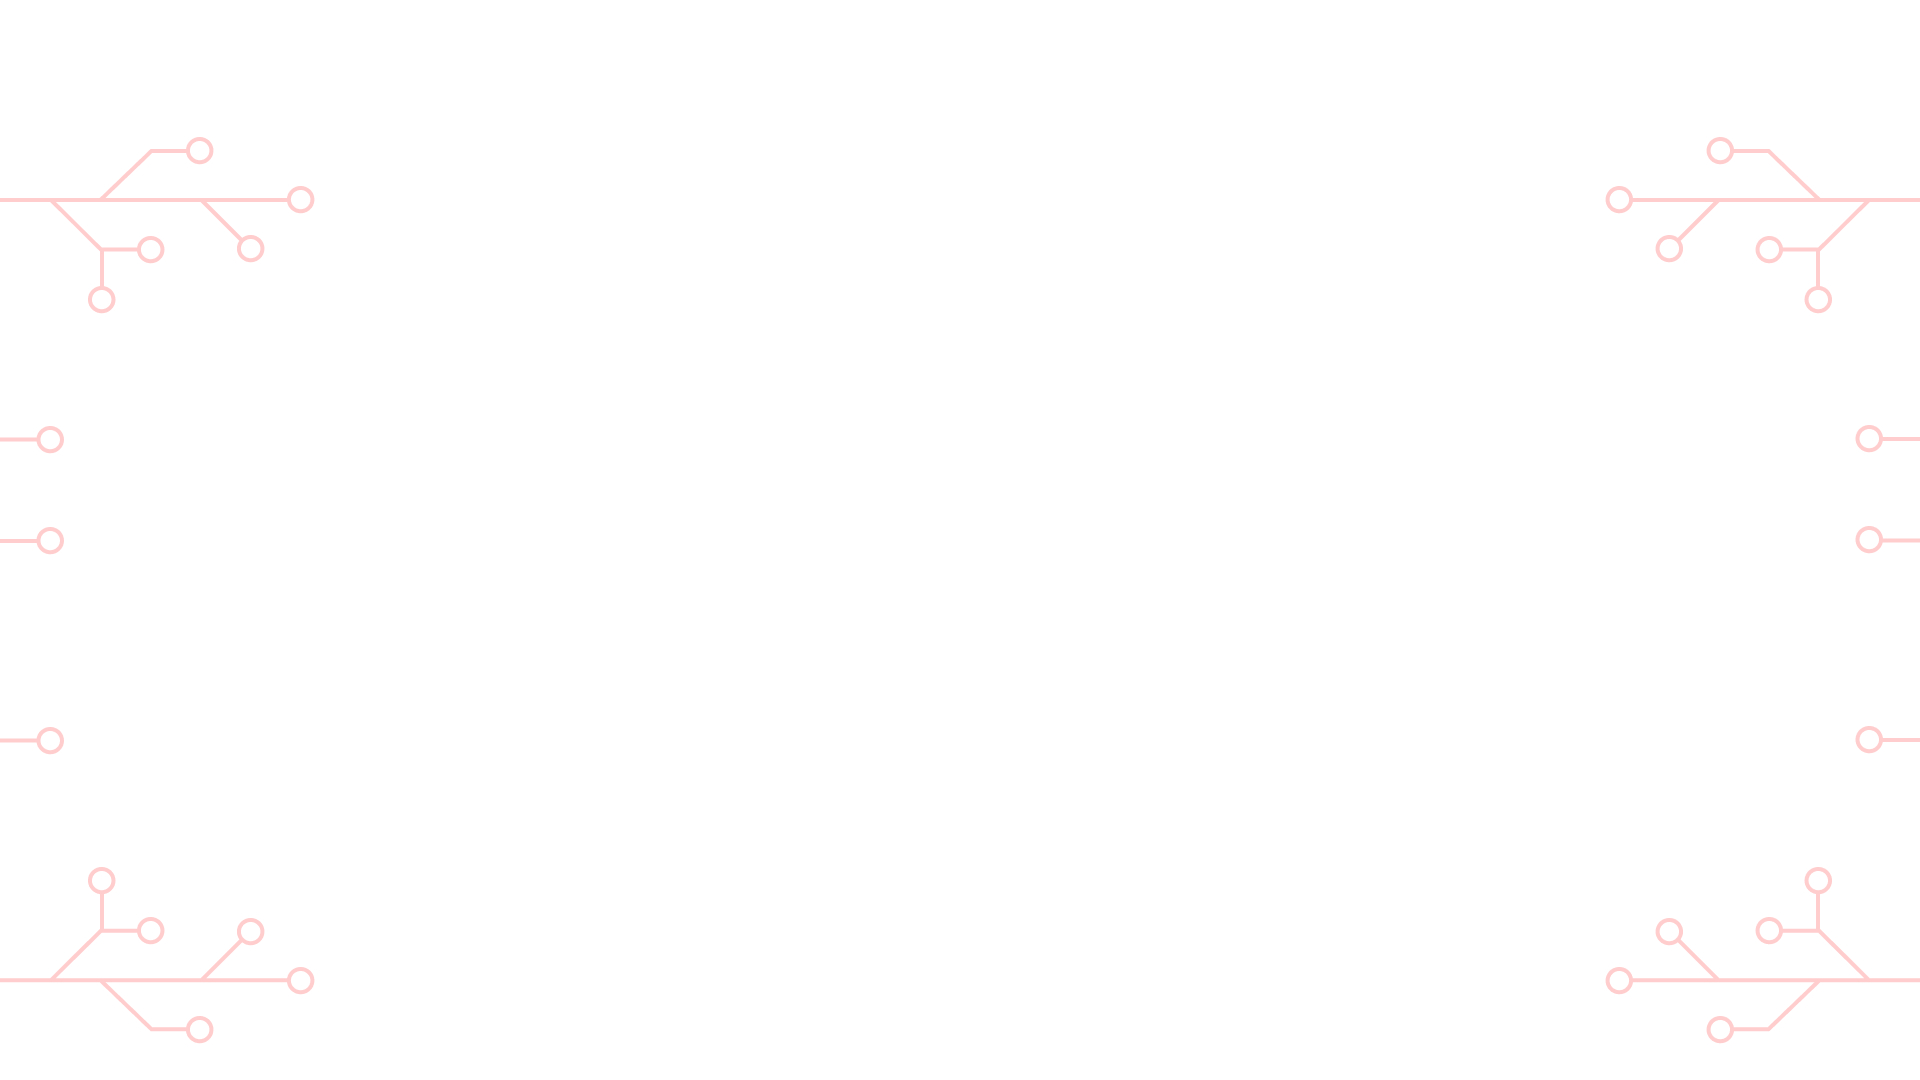
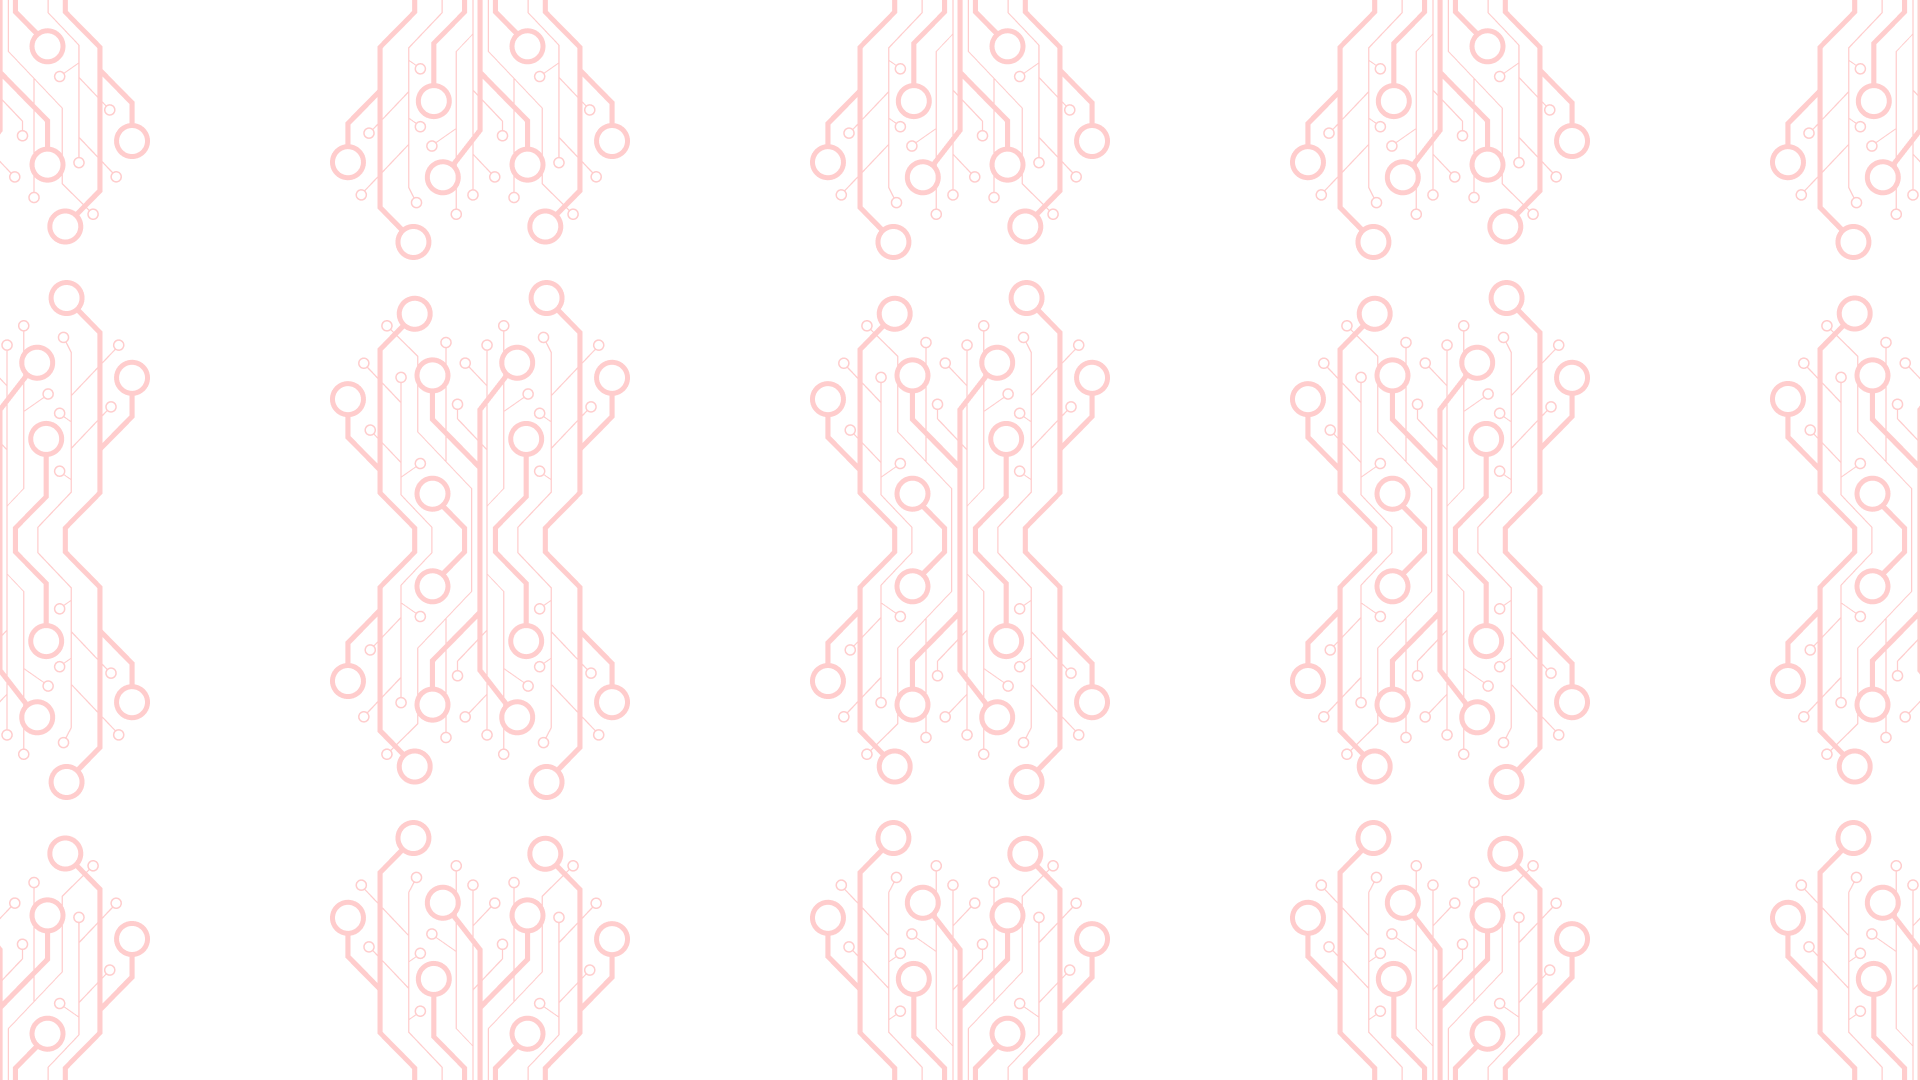
Added login and registration scene, update background picture

diff --git a/src/main/resources/cssStyle/registrationAndLoginBorderPane.css b/src/main/resources/cssStyle/registrationAndLoginBorderPane.css
@@ -1,0 +1,4 @@
+.root{
+-fx-background-image:url('../images/two-circles.png');
+-fx-background-size: 100% 100%;
+}

diff --git a/src/main/java/com/example/redactor/SceneRegistrationController.java b/src/main/java/com/example/redactor/SceneRegistrationController.java
@@ -1,0 +1,4 @@
+package com.example.redactor;
+
+public class SceneRegistrationController {
+}

diff --git a/src/main/java/com/example/redactor/SceneLoginController.java b/src/main/java/com/example/redactor/SceneLoginController.java
@@ -1,0 +1,4 @@
+package com.example.redactor;
+
+public class SceneLoginController {
+}
